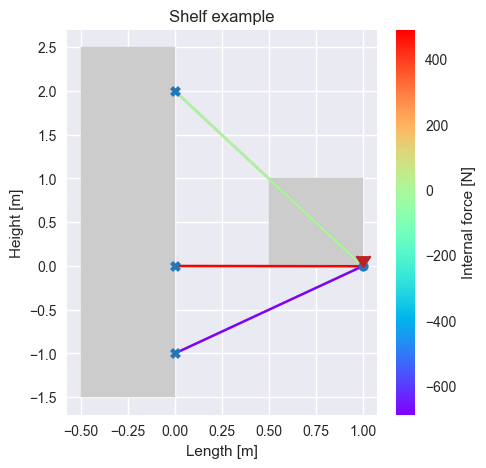
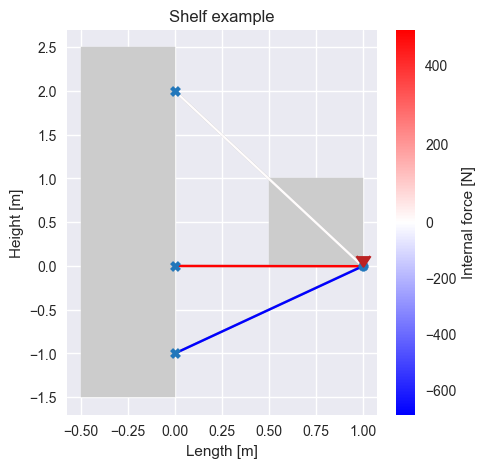
docs(examples): :lipstick: update colormap

diff --git a/examples/shelf/source.py b/examples/shelf/source.py
@@ -42,4 +42,4 @@ if __name__ == "__main__":
     plt.ylabel("Height [m]")
     shelf.plot(color="#BBB", show_lengths=False, show_nodes=False)
     solution.plot_force(label="Internal force [N]", show_lengths=False)
-    plt.savefig("examples/shelf.png", bbox_inches="tight")
+    plt.savefig("examples/shelf/output.png", bbox_inches="tight")
